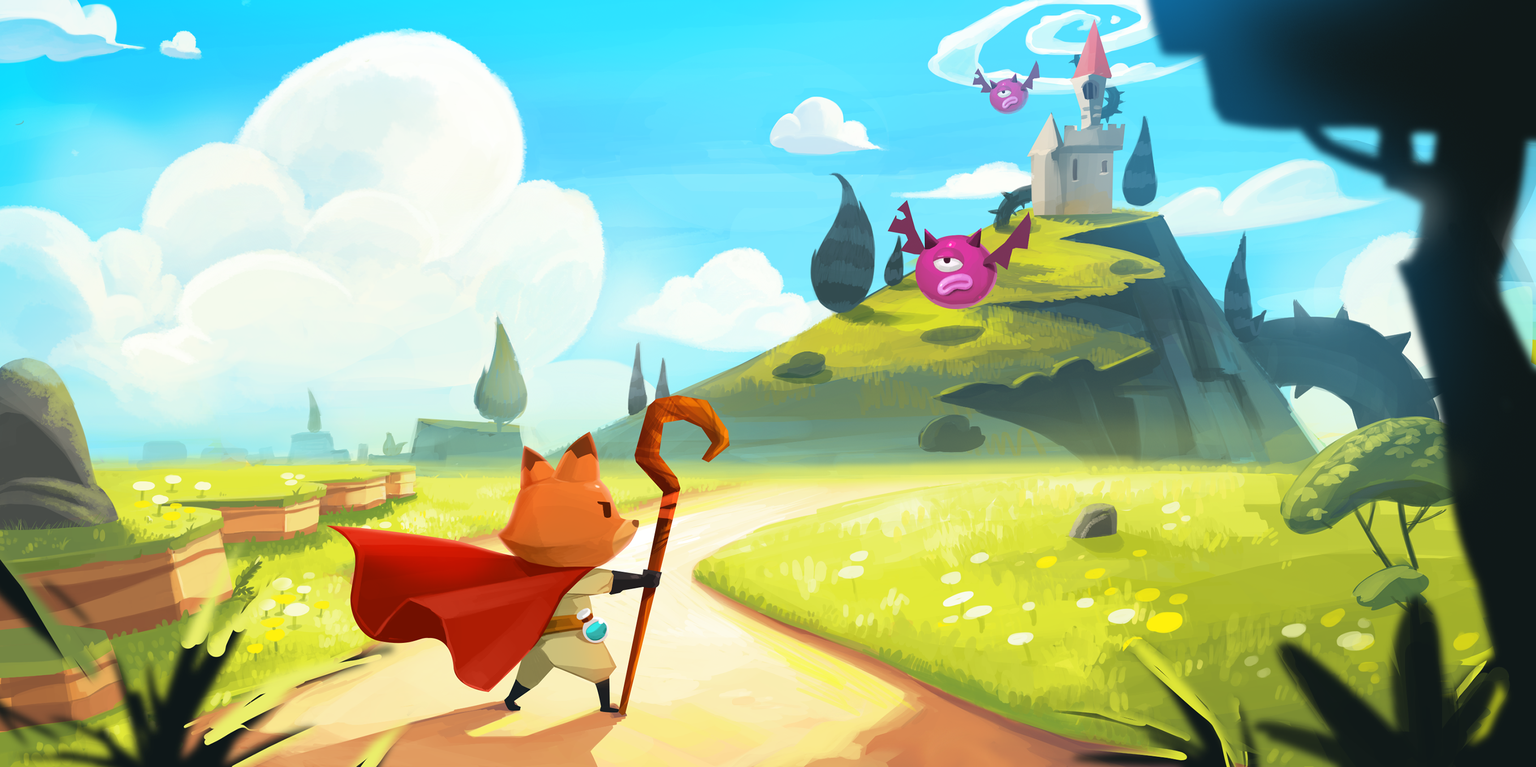
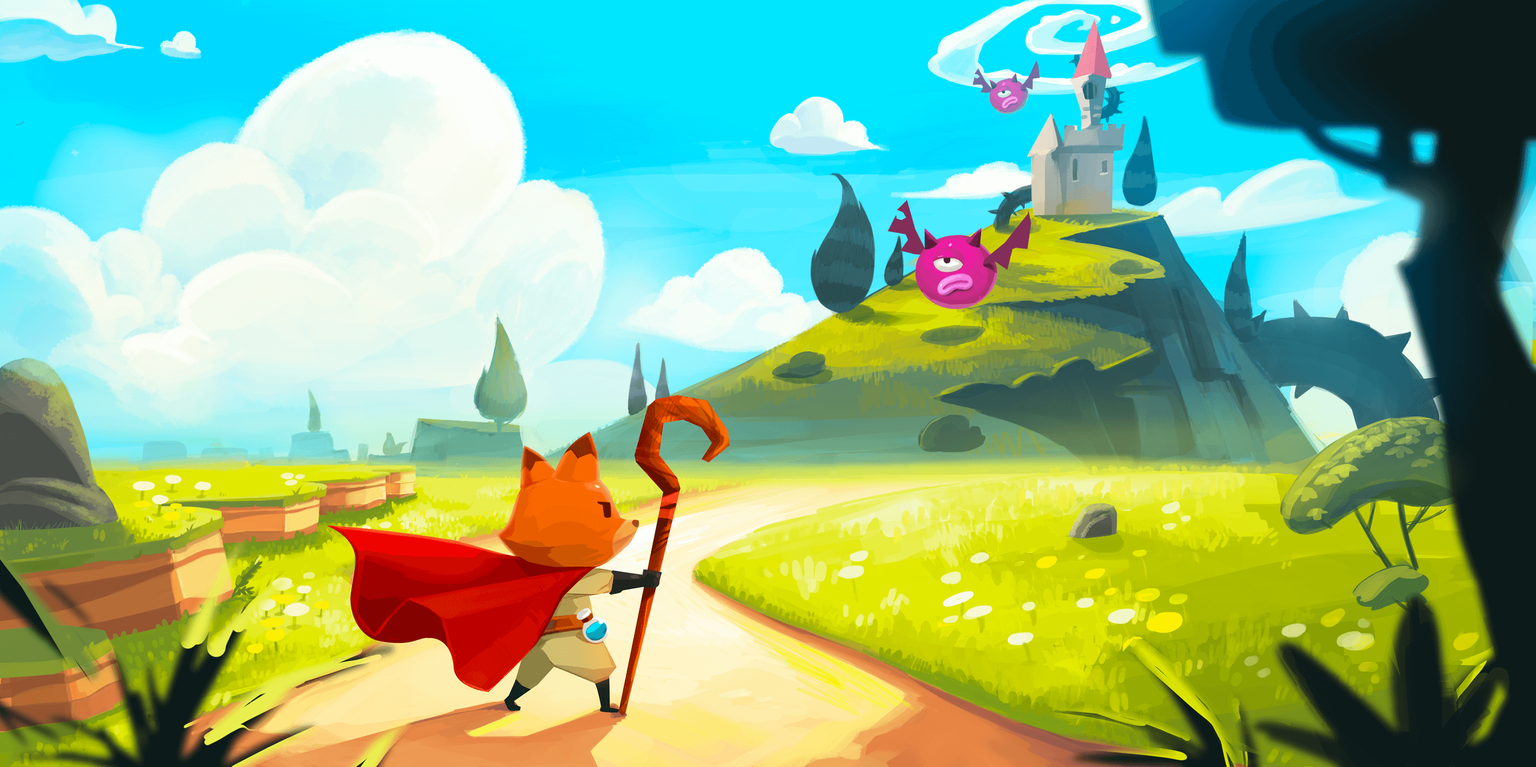
fix: Main background image optimise + text in capture redo

diff --git a/src/components/Capture.tsx b/src/components/Capture.tsx
@@ -78,11 +78,16 @@ function Capture(props: Props) {
       )}
 
       {!statusMessage && (
-        <div className="flex w-full justify-center gap-8">
-          <ImageUploadField handleSubmit={handleSubmitTakePicture} rounded />
-          <RoundedButton onClick={handleImageSubmit}>
-            <CheckSVG />
-          </RoundedButton>
+        <div className="flex flex-col gap-4">
+          <p className="text-shadow-white font-Poppins text-lg font-extrabold text-black">
+            What an amazing sculpture! Do you want to continue or redo?
+          </p>
+          <div className="flex w-full justify-center gap-8">
+            <ImageUploadField handleSubmit={handleSubmitTakePicture} rounded />
+            <RoundedButton onClick={handleImageSubmit}>
+              <CheckSVG />
+            </RoundedButton>
+          </div>
         </div>
       )}
 
